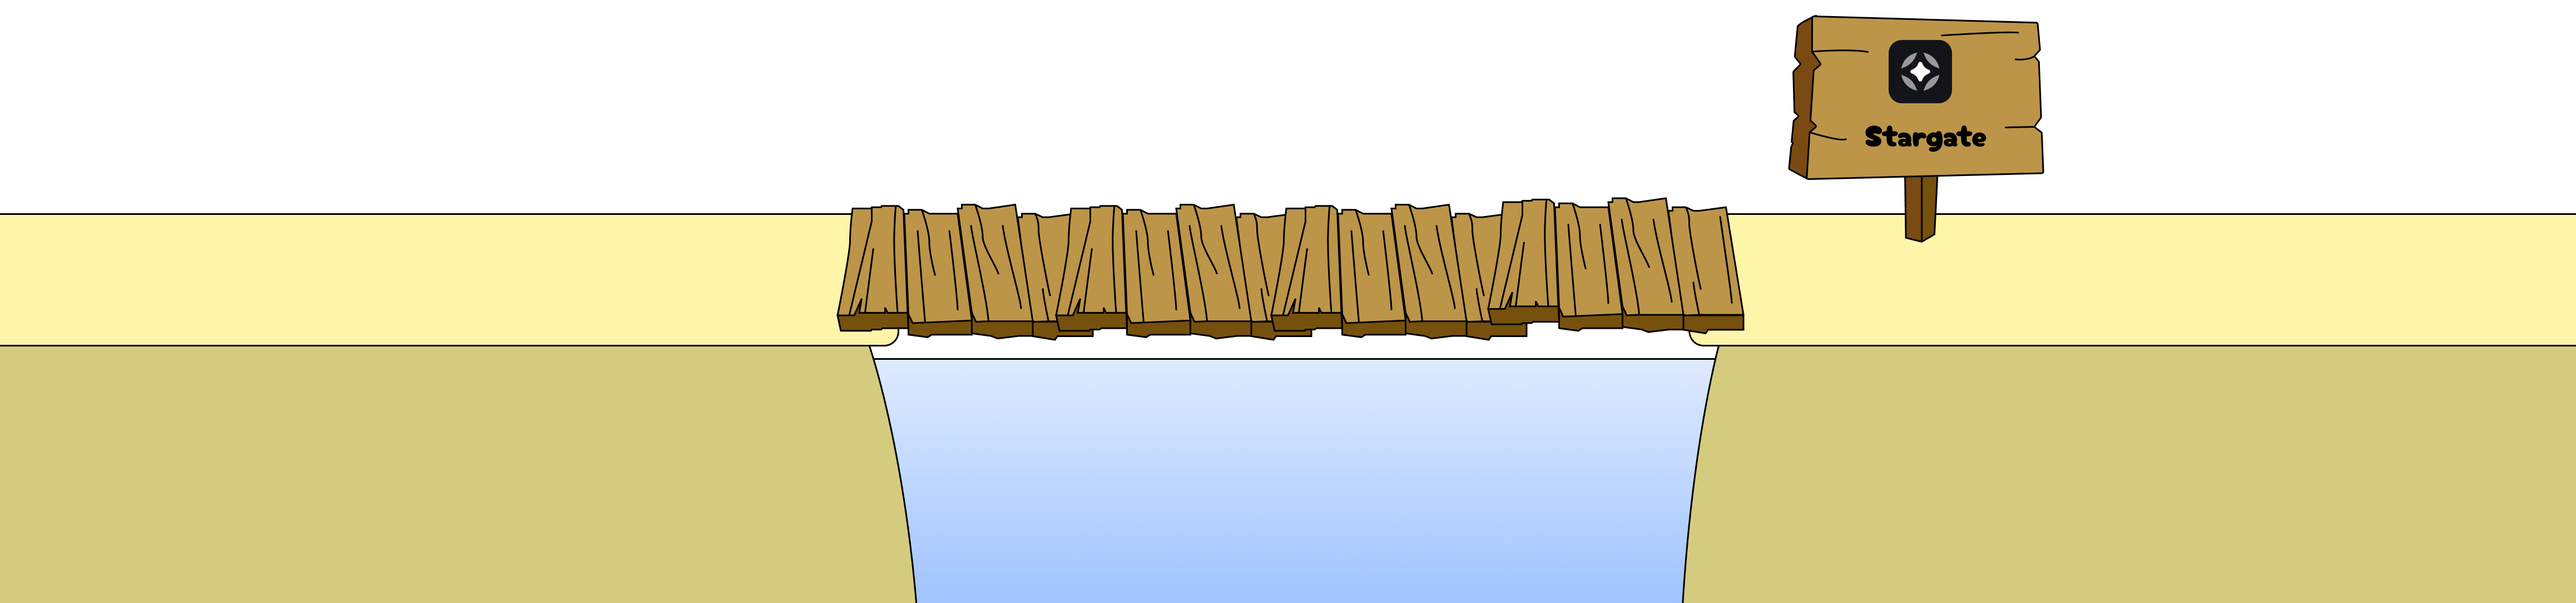
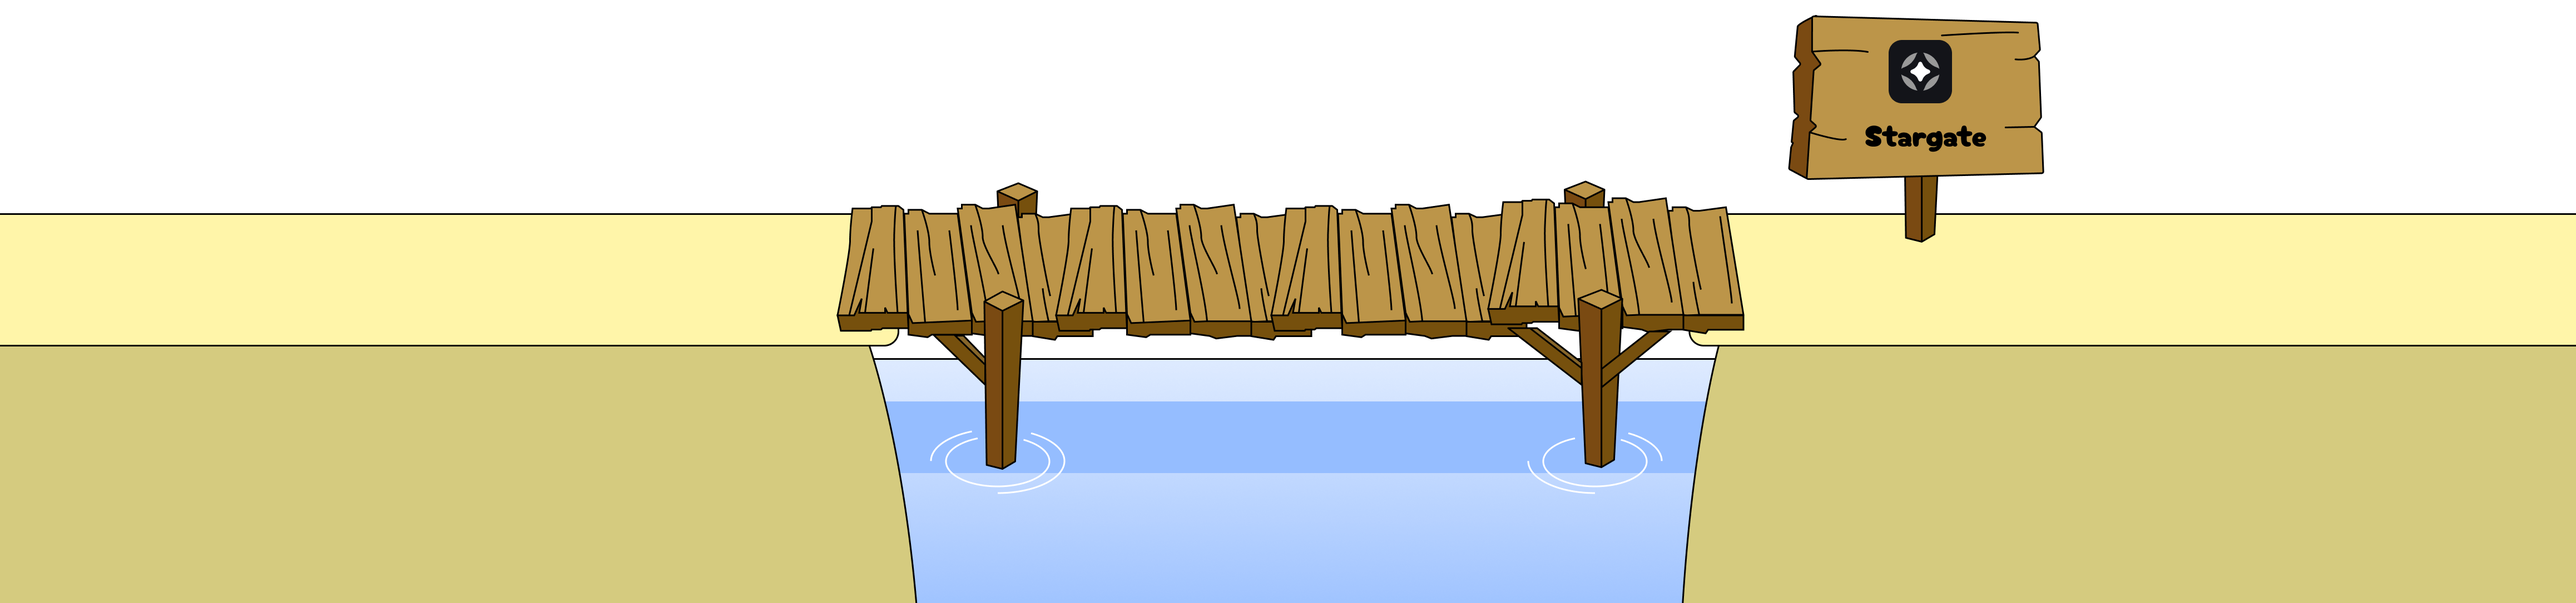
feat: add baddies styles

Changed region(s): [[0.342, 0.4862, 0.6839, 0.8204], [0.3731, 0.3039, 0.4041, 0.3646], [0.5907, 0.3039, 0.6218, 0.3343]]

diff --git a/src/sections/home-earth/index.tsx b/src/sections/home-earth/index.tsx
@@ -197,13 +197,13 @@ const HomeEarth = () => {
             placement={PopoverPlacement.Top}
             offset={0}
             content={<img src={isDefaultTheme() ? '/images/home-earth/signpost-baddies.svg':'/images/home-earth/signpost-mcbera.svg'} className={isDefaultTheme() ? 'w-[127px] h-[57px]' : 'w-[168px] h-[57px]'} />}
-            triggerContainerClassName="absolute z-[4] cursor-pointer bottom-0 right-[150px] transition-transform hover:scale-110"
+            triggerContainerClassName={clsx('absolute z-[4] cursor-pointer bottom-0 transition-transform hover:scale-110', isDefaultTheme() ? 'right-[150px]' : 'right-[130px]')}
           >
             <div className='w-full h-full relative'>
               <img
                 onClick={()=> toggleTheme()}
                 src={isDefaultTheme() ? "/images/theme-baddies.png" : "/images/theme-default.png"}
-                className={clsx('relative z-[4]', isDefaultTheme() ? 'w-[103px] h-[95px]' : 'w-[110px] h-[121px]')}
+                className={clsx('relative z-[4]', isDefaultTheme() ? 'w-[103px] h-[95px]' : 'w-[136px] h-[108px]')}
                 alt={isDefaultTheme() ? "Switch to LGBT Theme" : "Switch to Default Theme"}
               />
               {

diff --git a/src/components/bear-background/laptop.tsx b/src/components/bear-background/laptop.tsx
@@ -941,9 +941,9 @@ export default memo(function BearBackground({ type, children }: PropsType) {
             ) : (
               (
                 <>
-                  <img src="/images/baddies/yeeze.png" className='w-[287px] absolute bottom-[200px] left-0 z-[8]' alt="" />
+                  <img src="/images/baddies/yeeze.png" className='w-[287px] absolute bottom-[10vw] left-0 z-[8]' alt="" />
                   <div className={clsx('absolute left-0 bottom-0 right-0 w-full')}>
-                    <img src="/images/baddies/bridge-bg.png" className='w-full h-full object-contain' alt="" />
+                    <img src="/images/baddies/bridge-bg.png" className='w-full min-w-[1600px] h-full object-contain' alt="" />
                   </div>
                 </>
               )

diff --git a/src/layouts/main/index.tsx b/src/layouts/main/index.tsx
@@ -67,7 +67,7 @@ const MainLayout = (props: Props) => {
       return { background: rainyDay?.bg };
     }
 
-    if (['/', '/bridge', '/dapps', '/dex/kodiak'].includes(pathname) && !isDefaultTheme()) {
+    if ((['/', '/bridge', '/dapps', '/dashboard'].includes(pathname) || pathname.startsWith('/dex/')) && !isDefaultTheme()) {
       return {
         backgroundColor: themeConfig.primaryColor
       };
